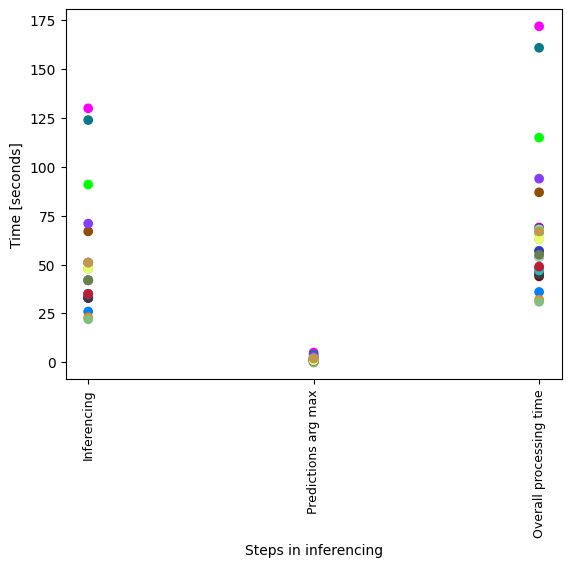
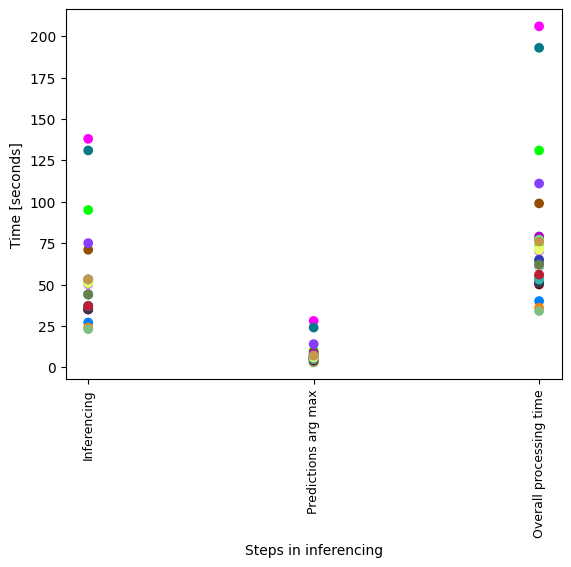
Working model (float16 precision, local) with option to write out probabilities, remove gaussian smoothing.

diff --git a/inferencing.py b/inferencing.py
@@ -44,7 +44,7 @@ class Inferencing:
         elif self.config['results_device'] == 'gpu':
             self.results_device = torch.device('cuda:' + self.config['gpu_to_use'])
 
-        if self.config['use_gaussian_smoothing']:
+        if self.config['use_gaussian_smoothing'] and not self.common_config['save_probabilities']:
             self.weights = self.compute_gaussian()
         else:
             self.weights = 1
@@ -105,7 +105,7 @@ class Inferencing:
         self.gpu_mem_tracker.track()
 
         arr_tensor = torch.from_numpy(arr)
-        predictions = torch.zeros((self.config['num_output_labels'], *arr.shape[1:]), dtype=torch.half, device=self.results_device)
+        predictions = torch.zeros((self.common_config['num_output_labels'], *arr.shape[1:]), dtype=torch.half, device=self.results_device)
         n_predictions = torch.zeros(arr.shape[1:], dtype=torch.half, device=self.results_device)
         self.gpu_mem_tracker.track()
 
@@ -113,7 +113,7 @@ class Inferencing:
 
             if not self.config['run_with_tensorrt']:
 
-                for sl in slicers:
+                for sl in tqdm(slicers):
                     patch = arr_tensor[sl][None]
                     patch = patch.to(self.device)
 
@@ -132,7 +132,7 @@ class Inferencing:
             else:
 
                 trt.init_libnvinfer_plugins(None,'')
-                trt_infer = TensorRTInfer(os.path.join('model_files', 'trt_fp16.engine'))
+                trt_infer = TensorRTInfer(os.path.join('model_files', 'trt_4x26_test.engine'))
 
                 for sl in tqdm(slicers):
                     patch = arr_tensor[sl][None]
@@ -153,14 +153,14 @@ class Inferencing:
             del n_predictions
             self.empty_cache()
             self.gpu_mem_tracker.track()
-            self.logger.info('Division took ' + str((datetime.datetime.now() - start).seconds) + ' seconds.')            
-            
+            self.logger.info('Division took ' + str((datetime.datetime.now() - start).seconds) + ' seconds.')    
+
             start = datetime.datetime.now()
-            predictions = np.argmax(predictions, axis = 0)
-            predictions = np.array(predictions, dtype=np.uint8)
+            predictions_argmax = np.argmax(predictions, axis = 0)
+            predictions_argmax = np.array(predictions_argmax, dtype=np.uint8)
             self.logger.info('Predictions argmax took ' + str((datetime.datetime.now() - start).seconds) + ' seconds.')
 
         self.empty_cache()
         self.gpu_mem_tracker.track()
 
-        return predictions
+        return predictions_argmax, predictions    

diff --git a/postprocessing.py b/postprocessing.py
@@ -2,11 +2,15 @@ import itk.itkLabelShapeKeepNObjectsImageFilterPython
 import numpy as np
 import itk
 from utils.logger_config import logger
-
+import datetime
+import os
 class Postprocessing:
     def __init__(self, config):
         self.config = config['postprocessing_config']
         self.common_config = config['common_config']
+
+        if not os.path.exists(self.config['probs_save_dir']):
+            os.makedirs(self.config['probs_save_dir'])
 
         # Create a logger object
         self.logger = logger.getLogger('Postprocessing')
@@ -95,3 +99,27 @@ class Postprocessing:
         resampler.Update()
 
         return resampler.GetOutput()
+    
+    def postprocess_and_save_probabilities(self, prediction_probabilities, slicer_to_revert_padding, im, case_name):
+
+        if self.common_config['save_probabilities']:
+            start = datetime.datetime.now()
+
+            for k in range(self.common_config['num_output_labels']):
+                class_name = self.config['class_names'][k]
+
+                current_channel_prediction_probabilities = prediction_probabilities[k, :, :, :]
+                current_channel_prediction_probabilities = current_channel_prediction_probabilities[tuple(slicer_to_revert_padding)]
+
+                image_to_save = itk.GetImageFromArray(current_channel_prediction_probabilities.astype(np.float32))
+                image_to_save.SetDirection(im.GetDirection())
+                image_to_save.SetOrigin(im.GetOrigin())
+                image_to_save.SetSpacing(self.common_config['target_spacing'])
+
+                image_to_save = self.resample_image(image_to_save, im)
+
+                itk.imwrite(image_to_save, os.path.join(self.config['probs_save_dir'], case_name + '_' + class_name + '.nii.gz'))
+
+            self.logger.info('Saving inference probabilities took ' + str((datetime.datetime.now() - start).seconds) + ' seconds.')
+
+    

diff --git a/tensor_rt/export_ONNX_TRT.py b/tensor_rt/export_ONNX_TRT.py
@@ -20,7 +20,7 @@ def main():
     with open(os.path.join('model_files', 'model.pkl'), 'rb') as f:
             model = pickle.load(f)
     model.load_state_dict(checkpoint['network_weights'])
-    model = model.half()
+    #model = model.half()
     model.to(torch.device('cuda:0'))
     model.eval()    
    
@@ -32,7 +32,7 @@ def main():
         #dynamic_axes={'input': {0: 'batch_size'}, 'output': {0: 'batch_size'}}
 
         # A dummy input is needed to generate the ONNX model
-        dummy_input = torch.randn(1, 1, 160, 160, 160).half().cuda()
+        dummy_input = torch.randn(1, 1, 160, 160, 160).cuda() #.half().cuda()
 
         # A example output needed to tell ONNX export how to properly define output
         #example_output = torch.randn(1*160*160*160, 4)
@@ -79,7 +79,7 @@ def main():
     print('Finished creating engine, took ' + str(time.time() - start) + ' seconds.')
     print('Engine creation done')
 
-    with open('trt.engine', mode='wb') as f:
+    with open('trt_4x26_test.engine', mode='wb') as f:
         f.write(bytearray(engine))#f.write(bytearray(engine.serialize()))
         print("generating file done!")
     

diff --git a/run_inference_pipeline.py b/run_inference_pipeline.py
@@ -41,10 +41,11 @@ if __name__ == '__main__':
         arr, slicer_to_revert_padding, slicers = preprocess_filter.preprocess(im)
 
         # Run inference steps
-        prediction = inference_filter.infer(arr, slicers)
+        prediction_argmax, prediction_probs = inference_filter.infer(arr, slicers)
 
         # Run postprocessing steps
-        postprocessed = postprocess_filter.postprocess(prediction, slicer_to_revert_padding, im)
+        postprocessed = postprocess_filter.postprocess(prediction_argmax, slicer_to_revert_padding, im)
+        postprocess_filter.postprocess_and_save_probabilities(prediction_probs, slicer_to_revert_padding, im, case_name)
 
         # Save the result
         itk.imwrite(postprocessed, os.path.join(config['common_config']['preds_dir'], case_name + '.nii.gz'))

diff --git a/utils/analyze_log_files.py b/utils/analyze_log_files.py
@@ -29,8 +29,8 @@ def plot_scatter(dictionary):
 
 if __name__ == '__main__':
 
-    inference_log_filepath = os.path.join('./logs', '23-Apr-24-20:43:19-run_inference_pipeline.log')
-    memory_usage_log_filepath = os.path.join('./logs', '23-Apr-24-20:43:21-gpu_mem_track.log')
+    inference_log_filepath = os.path.join('./logs', '25-Apr-24-21:04:30-run_inference_pipeline.log')
+    memory_usage_log_filepath = os.path.join('./logs', '25-Apr-24-21:04:32-gpu_mem_track.log')
 
     case_names = []
     inference_times = []
